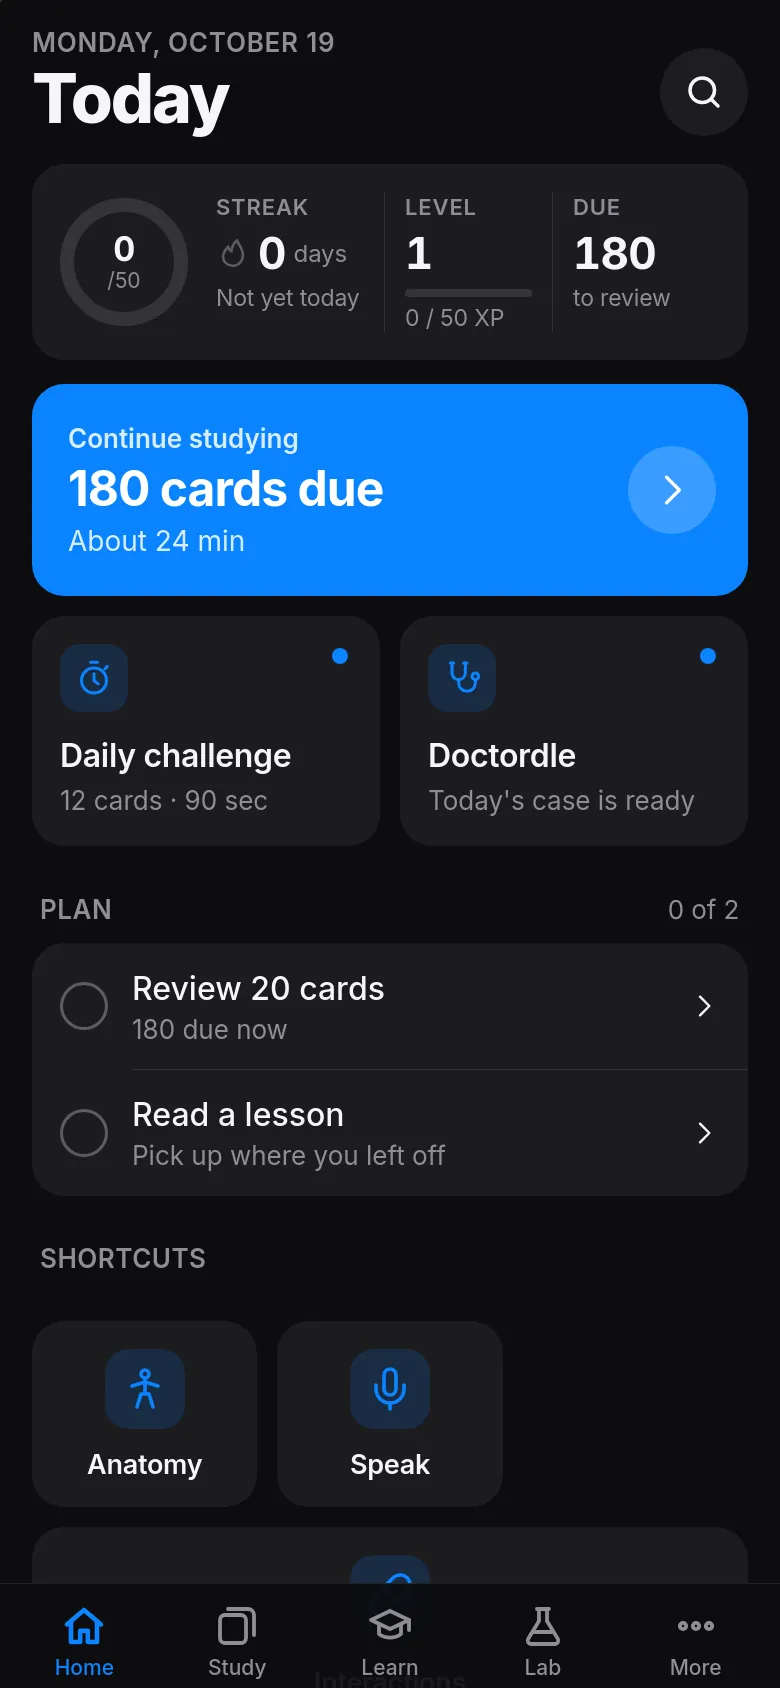
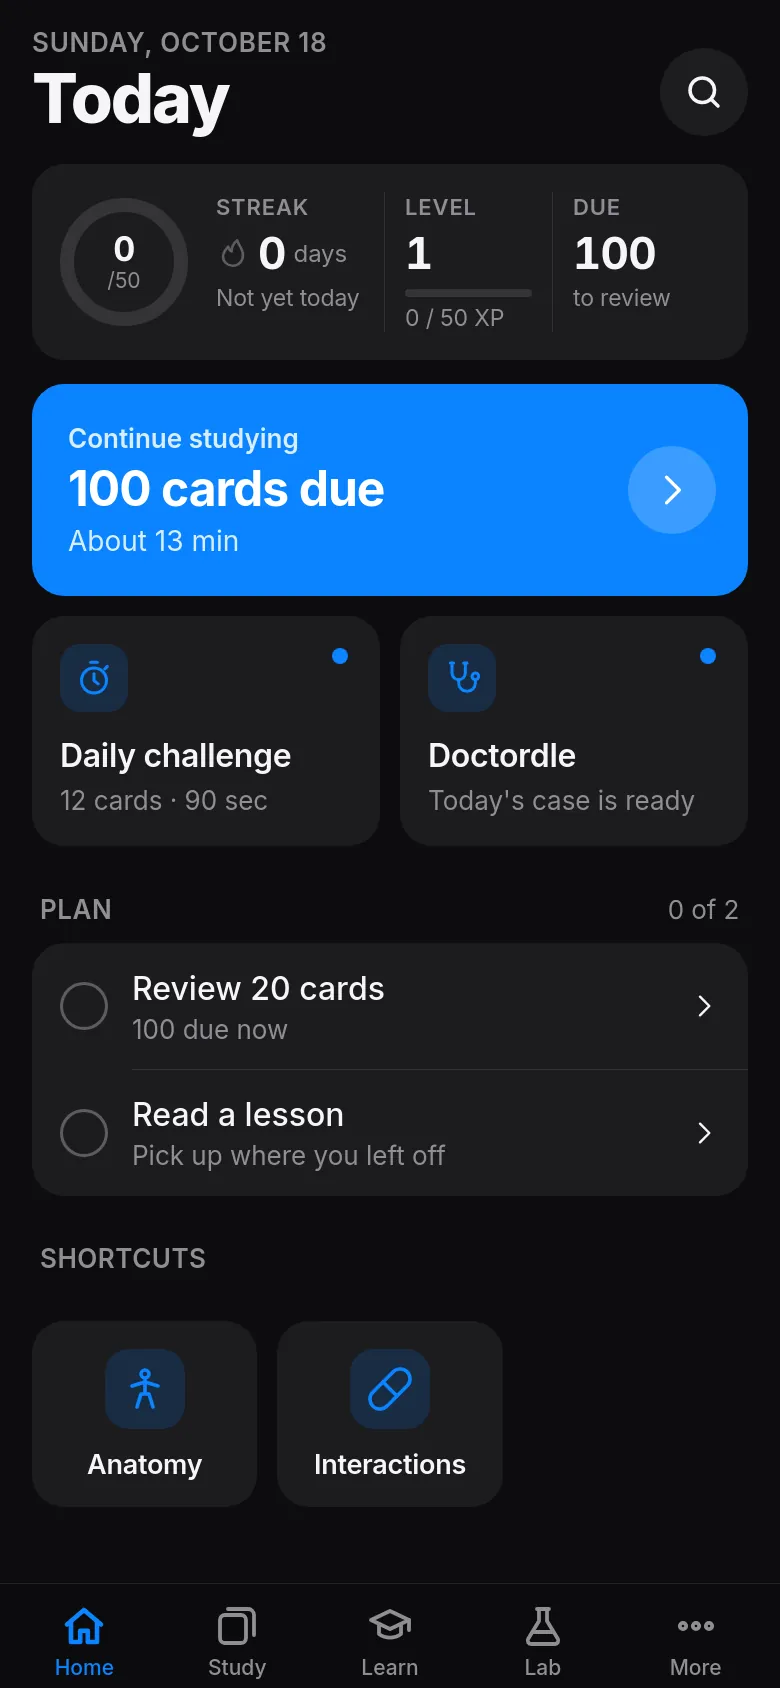
Synapse: add Synapse Pro ($20 one time) section, medicine-only copy

diff --git a/synapse/index.html b/synapse/index.html
@@ -4,11 +4,11 @@
 <meta charset="utf-8">
 <meta name="viewport" content="width=device-width, initial-scale=1, viewport-fit=cover">
 <title>Synapse: flashcards and medicine study | Northpeak Studios</title>
-<meta name="description" content="Synapse is a flashcard and medicine study app with spaced repetition, courses, a Lab of medical and science tools, and languages.">
+<meta name="description" content="Synapse is a flashcard and medicine study app with spaced repetition, courses and a Lab of medical and science tools.">
 <meta name="theme-color" content="#070d1a" media="(prefers-color-scheme: dark)">
 <meta name="theme-color" content="#f5f8fc" media="(prefers-color-scheme: light)">
 <meta property="og:title" content="Synapse: flashcards and medicine study | Northpeak Studios">
-<meta property="og:description" content="Synapse is a flashcard and medicine study app with spaced repetition, courses, a Lab of medical and science tools, and languages.">
+<meta property="og:description" content="Synapse is a flashcard and medicine study app with spaced repetition, courses and a Lab of medical and science tools.">
 <meta property="og:type" content="website">
 <link rel="icon" href="../favicon.svg" type="image/svg+xml">
 <link rel="icon" href="../favicon-32.png" sizes="32x32" type="image/png">
@@ -49,12 +49,12 @@
 </section>
 <section>
   <div class="wrap">
-    <div class="sec-head"><h2>What it does</h2><p>Synapse combines spaced-repetition flashcards with courses, hands-on study tools and language practice, so one app covers a whole study routine.</p></div>
+    <div class="sec-head"><h2>What it does</h2><p>Synapse combines spaced-repetition flashcards with courses and hands-on medical study tools, so one app covers a whole study routine.</p></div>
     <div class="grid cols-3">
 <div class="card feature"><div class="ic"><svg viewBox="0 0 24 24" fill="none" stroke="currentColor" stroke-width="1.8" stroke-linecap="round" stroke-linejoin="round"><path d="M3 12a9 9 0 0 1 15.5-6.2L21 8"/><path d="M21 3v5h-5"/><path d="M21 12a9 9 0 0 1-15.5 6.2L3 16"/><path d="M3 21v-5h5"/></svg></div><h3>Spaced repetition</h3><p>Cards come back right before you would forget them, so review time goes where it counts.</p></div>
 <div class="card feature"><div class="ic"><svg viewBox="0 0 24 24" fill="none" stroke="currentColor" stroke-width="1.8" stroke-linecap="round" stroke-linejoin="round"><path d="M4 5.5A2.5 2.5 0 0 1 6.5 3H20v15H6.5A2.5 2.5 0 0 0 4 20.5z"/><path d="M4 20.5A2.5 2.5 0 0 0 6.5 23H20"/></svg></div><h3>Courses</h3><p>Structured lessons that walk you through a topic step by step, then turn it into cards.</p></div>
 <div class="card feature"><div class="ic"><svg viewBox="0 0 24 24" fill="none" stroke="currentColor" stroke-width="1.8" stroke-linecap="round" stroke-linejoin="round"><path d="M9 3h6"/><path d="M10 3v6L4.5 19a1.5 1.5 0 0 0 1.3 2h12.4a1.5 1.5 0 0 0 1.3-2L14 9V3"/><path d="M7.5 15h9"/></svg></div><h3>The Lab</h3><p>Medical and science study tools: an ECG trainer, a patient simulator, a vitals interpreter, 3D anatomy and more.</p></div>
-<div class="card feature"><div class="ic"><svg viewBox="0 0 24 24" fill="none" stroke="currentColor" stroke-width="1.8" stroke-linecap="round" stroke-linejoin="round"><circle cx="12" cy="12" r="9"/><path d="M3 12h18"/><path d="M12 3a14 14 0 0 1 0 18a14 14 0 0 1 0-18"/></svg></div><h3>Languages</h3><p>Practice German, French and Spanish with cards and speaking drills.</p></div>
+<div class="card feature"><div class="ic"><svg viewBox="0 0 24 24" fill="none" stroke="currentColor" stroke-width="1.8" stroke-linecap="round" stroke-linejoin="round"><path d="M6 3v6a4 4 0 0 0 8 0V3"/><path d="M10 13v2a5 5 0 0 0 10 0v-2"/><circle cx="20" cy="11" r="2"/></svg></div><h3>Doctordle</h3><p>A new diagnosis puzzle every day: read the clues, guess the condition in six tries, then learn how it works.</p></div>
 <div class="card feature"><div class="ic"><svg viewBox="0 0 24 24" fill="none" stroke="currentColor" stroke-width="1.8" stroke-linecap="round" stroke-linejoin="round"><rect x="6" y="2.5" width="12" height="19" rx="3"/><path d="M10.5 18.5h3"/></svg></div><h3>Works offline</h3><p>Install it to your home screen and keep studying without a connection.</p></div>
 <div class="card feature"><div class="ic"><svg viewBox="0 0 24 24" fill="none" stroke="currentColor" stroke-width="1.8" stroke-linecap="round" stroke-linejoin="round"><path d="M12 3 4.5 6v6c0 4.5 3.2 7.8 7.5 9 4.3-1.2 7.5-4.5 7.5-9V6z"/><path d="m9 12 2 2 4-4"/></svg></div><h3>No accounts, no ads</h3><p>Your cards and progress live on your device. Sync between devices with a private sync code if you want.</p></div>
     </div>
@@ -71,6 +71,37 @@
 <figure><img src="../assets/shots/patient-sim.webp" alt="Synapse Patient sim screen" width="780" height="1688" loading="eager" decoding="async"><figcaption>Patient sim</figcaption></figure>
 <figure><img src="../assets/shots/ecg.webp" alt="Synapse ECG trainer screen" width="780" height="1688" loading="eager" decoding="async"><figcaption>ECG trainer</figcaption></figure>
     </div>
+  </div>
+</section>
+<section id="pro">
+  <div class="wrap">
+    <div class="sec-head"><h2>Synapse Pro &mdash; $20 one time</h2><p>Synapse is free to use. Pro is a single $20 payment that unlocks everything, with no subscription and nothing that renews.</p></div>
+    <div class="grid cols-2">
+      <div class="card feature">
+        <h3>What Pro includes</h3>
+        <ul style="margin:8px 0 0;padding-left:20px;line-height:1.7">
+          <li>All 200 courses at every level, from high school to doctor level, with every test</li>
+          <li>The full Lab: patient sims, ECG, CT and MRI, Anatomy 3D</li>
+          <li>Unlimited Doctordle cases</li>
+          <li>The drug interactions game</li>
+          <li>Deck import and image occlusion</li>
+          <li>Themes and app icons</li>
+        </ul>
+        <p style="margin-top:12px;color:var(--muted,#6b7280)">Free without Pro: your own decks, studying, stats, the daily items and the first level of every course.</p>
+      </div>
+      <div class="card feature">
+        <h3>How to buy</h3>
+        <ol style="margin:8px 0 0;padding-left:20px;line-height:1.7">
+          <li>Open Synapse and go to <strong>Settings &rarr; Synapse Pro</strong>, or tap any Pro feature.</li>
+          <li>Tap <strong>Pay with Apple Cash</strong> and enter a name and the phone number or email your Apple Cash uses.</li>
+          <li>You get an Apple Cash request within 24 hours. Pay it.</li>
+          <li>Your unlock code arrives after payment. Enter it under <strong>Have an unlock code?</strong></li>
+        </ol>
+        <p style="margin-top:12px;color:var(--muted,#6b7280)">Synapse is made by an independent developer. Apple Cash sends the payment directly to the developer, which is why the unlock is not instant.</p>
+      </div>
+    </div>
+    <div class="btns" style="margin-top:20px"><a class="btn primary" href="https://odin-cards.sites.tab.bot/" rel="noopener">Buy Synapse Pro &mdash; $20</a></div>
+    <p style="margin-top:10px;font-size:14px;color:var(--muted,#6b7280)">Apple Cash works in the US on iPhone. Questions or a problem with a code: <a href="mailto:northpeak.support@gmail.com">northpeak.support@gmail.com</a>.</p>
   </div>
 </section>
 <section>

diff --git a/index.html b/index.html
@@ -63,7 +63,7 @@
           <div class="app-icon"><svg viewBox="0 0 24 24" fill="none" stroke="currentColor" stroke-width="2" stroke-linecap="round" stroke-linejoin="round"><rect x="3" y="7" width="13" height="13" rx="2.5"/><path d="M8 3.5h10a2.5 2.5 0 0 1 2.5 2.5v10"/></svg></div>
           <div><h3>Synapse</h3><div class="tag">Flashcards and medicine study</div></div>
         </div>
-        <p>Spaced-repetition flashcards, guided courses, a Lab of medical and science study tools, and language practice, all in one clean app.</p>
+        <p>Spaced-repetition flashcards, guided courses and a Lab of medical and science study tools, all in one clean app.</p>
         <div class="btns" style="margin-bottom:16px">
           <a class="btn primary" href="synapse/index.html">Learn more</a>
           <a class="btn" href="https://odin-cards.sites.tab.bot/" rel="noopener">Try the web version</a>
